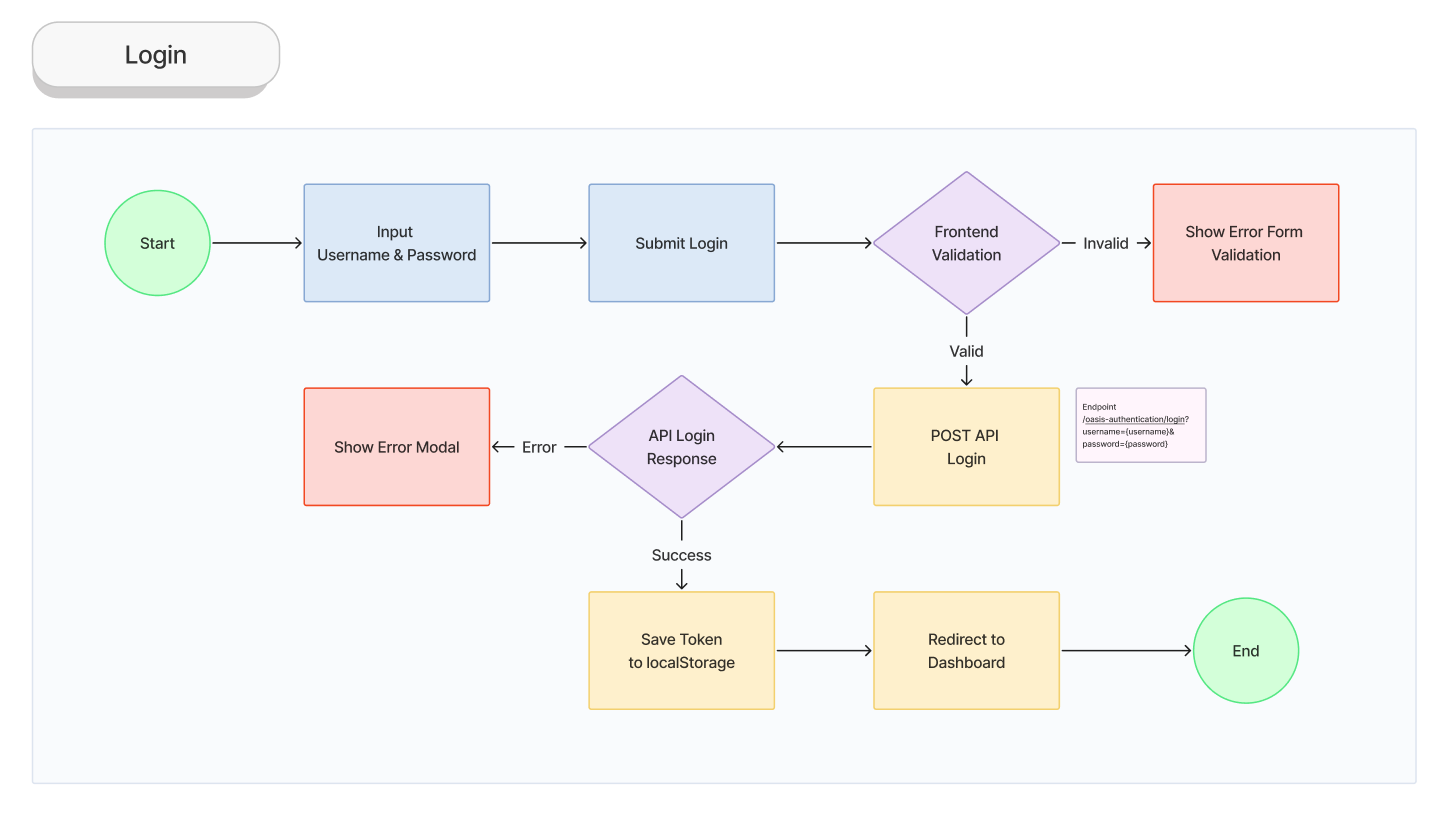
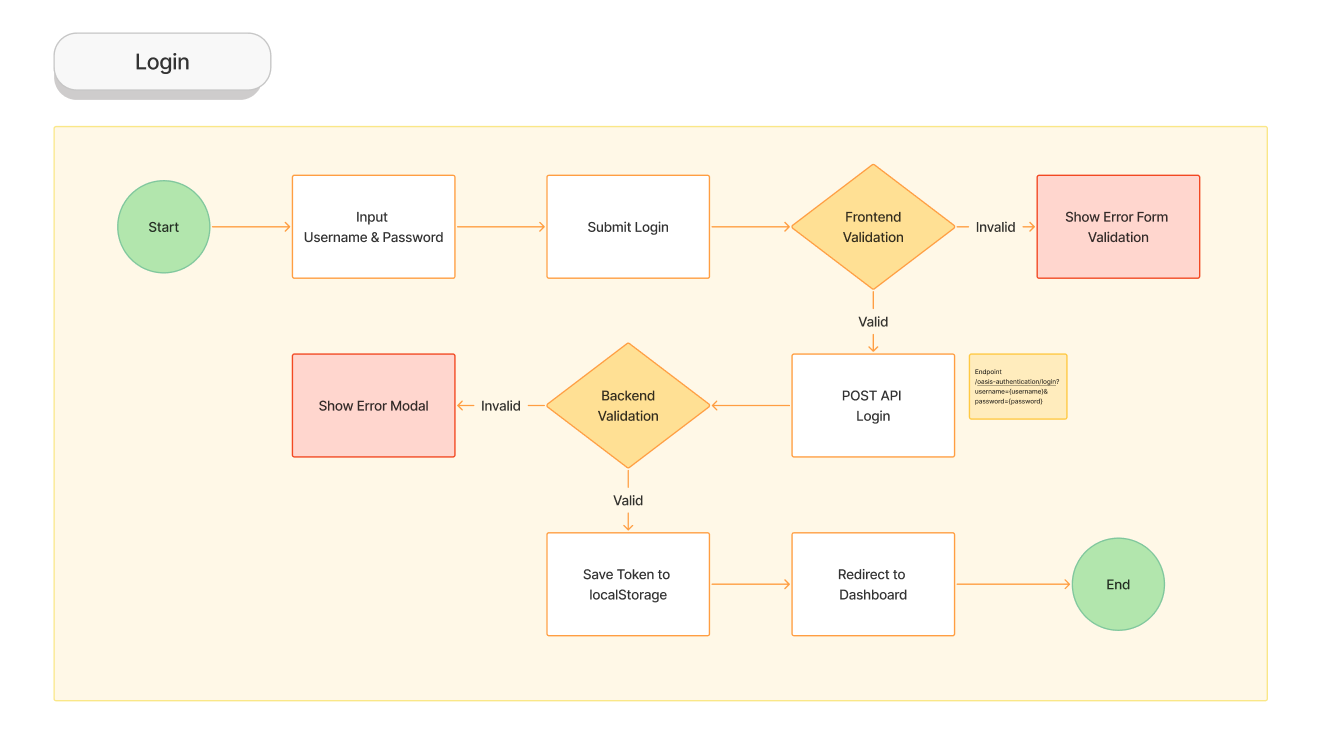
GITBOOK-14: No subject

Changed region(s): [[0.062, 0.2135, 0.9297, 0.8846], [0.0, 0.061, 0.9607, 0.183], [0.9297, 0.9151, 0.9607, 0.9456]]

diff --git a/authentication/login.md b/authentication/login.md
@@ -8,4 +8,4 @@ The Login feature is used to authenticate users before accessing the VCCI dashbo
 
 ### Feature Flow
 
-<figure><img src="../.gitbook/assets/image (1).png" alt=""><figcaption></figcaption></figure>
+<figure><img src="../.gitbook/assets/image (1) (1).png" alt=""><figcaption></figcaption></figure>

diff --git a/master-data/customer.md b/master-data/customer.md
@@ -4,3 +4,18 @@ icon: user
 
 # Customer
 
+Customer is part of Master Data
+
+### Overview
+
+This is Overview Page
+
+<figure><img src="../.gitbook/assets/image.png" alt=""><figcaption></figcaption></figure>
+
+### List Page
+
+This is List Page
+
+### Create Page
+
+This is create Page
